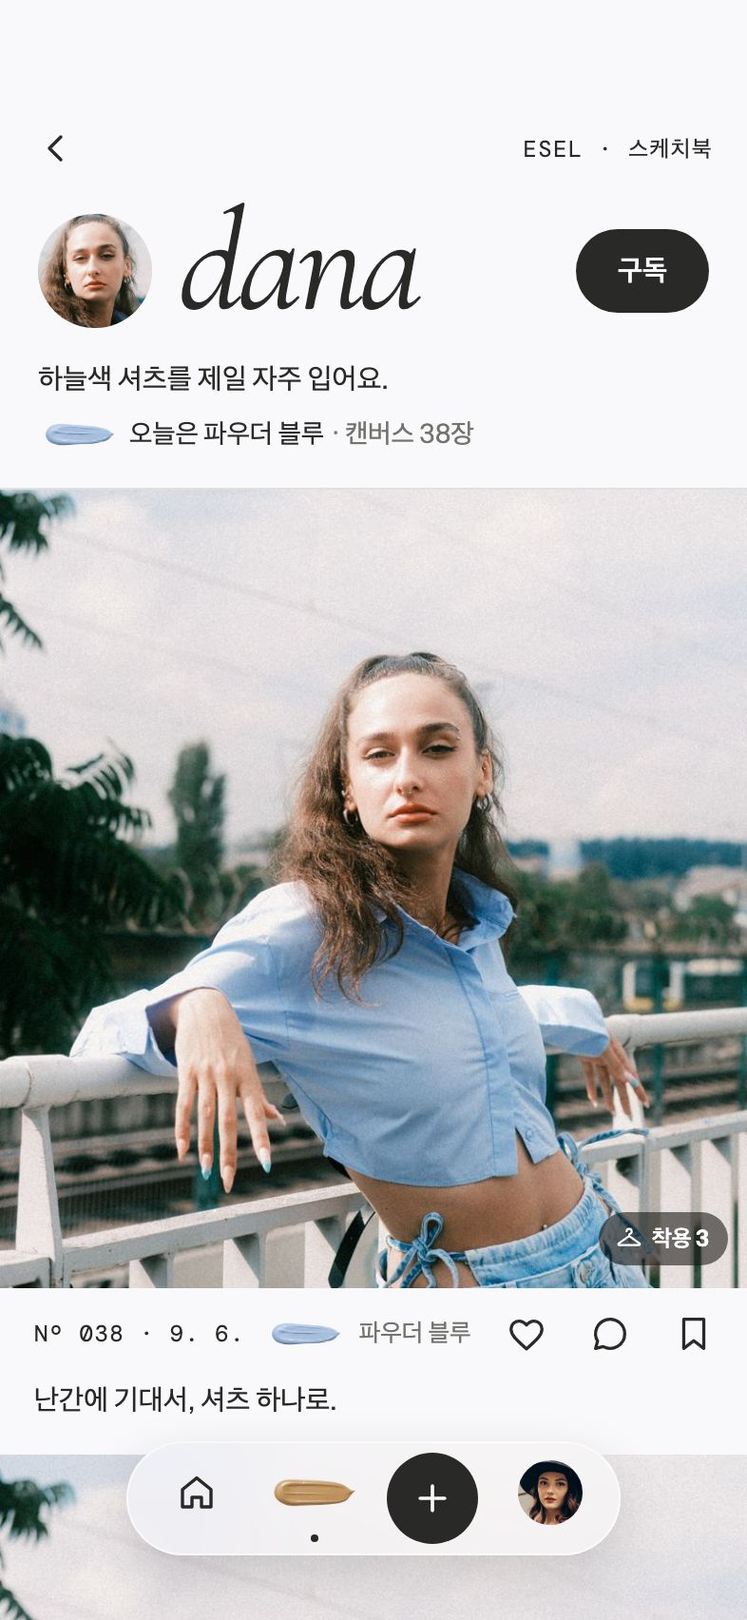
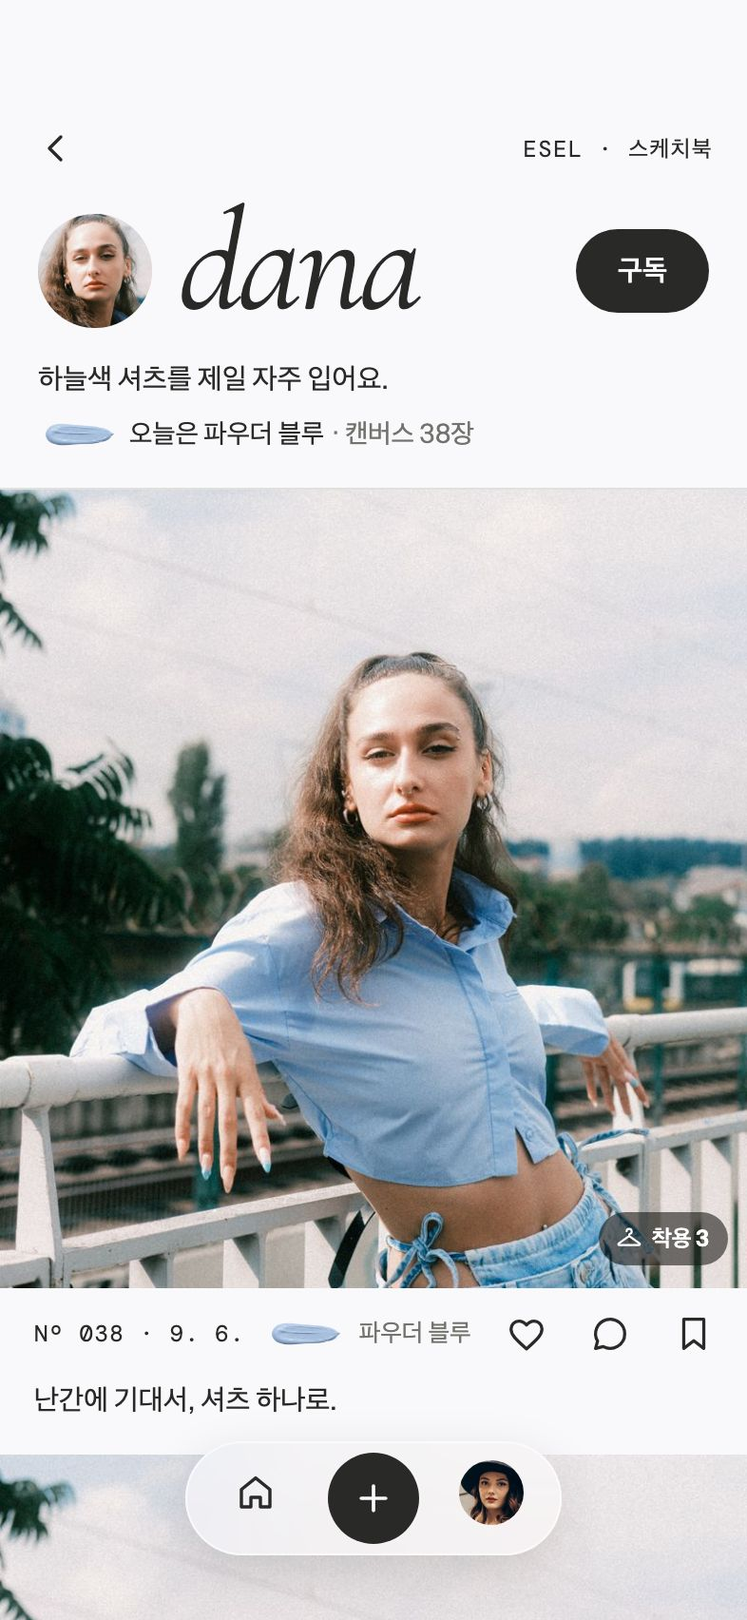
feat: 디자인 캔버스의 하단 캡슐을 홈↔팔레트가 바뀌는 3칸으로 변경
- capsule(): 바뀌는 칸 · 만들기 · 내 스케치북. 홈에서는 팔레트(내 물감), 그 밖에서는 홈 아이콘
- 컴포넌트 보드에 홈·팔레트·내 스케치북 세 상태 견본과 설명
- 캔버스 화면과 디자인 캡처 다시 생성(캔버스 v39로 게시)

Changed region(s): [[0.3053, 0.8709, 0.7939, 0.9642], [0.1832, 0.902, 0.3053, 0.9642]]

diff --git a/.codex/temp/prototype/20261003-cover-sns/generator/project/BoardComponents.dc.html b/.codex/temp/prototype/20261003-cover-sns/generator/project/BoardComponents.dc.html
@@ -33,22 +33,25 @@ button:active,a:active{transform:scale(0.97)}
 <section style="display: flex; flex-direction: column; gap: 18px">
 <h2 style="margin: 0; font-family: 'Esel Dot', 'Cormorant Garamond', 'Nanum Myeongjo', AppleMyungjo, Georgia, serif; font-size: 30px; font-weight: 400; line-height: 1.2">메뉴 캡슐 · 로그인 바 · 작은 로고</h2>
 <div style="display: flex; gap: 36px; align-items: flex-start; flex-wrap: wrap">
-<div style="display: flex; flex-direction: column; gap: 10px"><div style="position: relative; width: 300px; height: 110px; border-radius: 18px; overflow: hidden; "><img src="/_blob/a3b1f50ec885b82797b4dad1d6fb32f8" alt="" style="display: block; width: 300px; height: 110px; object-fit: cover; object-position: 50% 55%; position: absolute; left: 0; top: 0"><nav aria-label="주요 화면" class="esel-glass" style="position: absolute; left: 50%; bottom: 25px; width: 260px; height: 60px; margin-left: -130px; box-sizing: border-box; padding: 0 6px; border-radius: 30px; display: flex; align-items: center; justify-content: space-between; color: #292A27">
-<a href="CoverFeed.dc.html" aria-label="홈" aria-current="page" style="position: relative; width: 62px; height: 48px; box-sizing: border-box; padding-bottom: 6px; display: flex; align-items: center; justify-content: center"><svg width="24" height="24" viewBox="0 0 24 24" fill="none" stroke="currentColor" stroke-width="1.7" stroke-linecap="round" stroke-linejoin="round" aria-hidden="true"><path d="M4.5 10.4L12 4.3l7.5 6.1V19.5h-5v-5h-5v5h-5z"></path></svg><span aria-hidden="true" style="position: absolute; left: 50%; bottom: 1px; width: 4px; height: 4px; margin-left: -2px; border-radius: 50%; background: #292A27"></span></a>
+<div style="display: flex; flex-direction: column; gap: 10px"><div style="position: relative; width: 300px; height: 110px; border-radius: 18px; overflow: hidden; "><img src="/_blob/a3b1f50ec885b82797b4dad1d6fb32f8" alt="" style="display: block; width: 300px; height: 110px; object-fit: cover; object-position: 50% 55%; position: absolute; left: 0; top: 0"><nav aria-label="주요 화면" class="esel-glass" style="position: absolute; left: 50%; bottom: 25px; width: 198px; height: 60px; margin-left: -99px; box-sizing: border-box; padding: 0 6px; border-radius: 30px; display: flex; align-items: center; justify-content: space-between; color: #292A27">
 <a href="CoverStand.dc.html" aria-label="팔레트" style="position: relative; width: 62px; height: 48px; box-sizing: border-box; padding-bottom: 6px; display: flex; align-items: center; justify-content: center"><img src="/_blob/b6075b3235f77454183c94c49f6da37a" alt="" style="width: 52px; height: 26px; flex-shrink: 0; object-fit: contain"><span aria-hidden="true" style="position: absolute; left: 50%; bottom: 1px; width: 4px; height: 4px; margin-left: -2px; border-radius: 50%; background: transparent"></span></a>
 <span style="width: 62px; display: flex; justify-content: center"><a href="CoverMake.dc.html" aria-label="오늘의 캔버스 만들기" style="width: 48px; height: 48px; border-radius: 50%; display: flex; align-items: center; justify-content: center; background: #292A27; color: #F9F9FB"><svg width="22" height="22" viewBox="0 0 24 24" fill="none" stroke="currentColor" stroke-width="2" stroke-linecap="round" stroke-linejoin="round" aria-hidden="true"><path d="M12 5v14"></path><path d="M5 12h14"></path></svg></a></span>
 <a href="CoverShelf.dc.html" aria-label="내 스케치북" style="position: relative; width: 62px; height: 48px; box-sizing: border-box; padding-bottom: 6px; display: flex; align-items: center; justify-content: center"><span style="display: block; width: 34px; height: 34px; flex-shrink: 0; border-radius: 50%; overflow: hidden; background: #E9E9E6"><img src="/_blob/0d2c5aca03c0e210cd888e2094c78869" alt="" style="display: block; width: 128px; height: 192px; max-width: none; margin: -64px 0 0 -50px"></span><span aria-hidden="true" style="position: absolute; left: 50%; bottom: 1px; width: 4px; height: 4px; margin-left: -2px; border-radius: 50%; background: transparent"></span></a>
-</nav></div><span style="font-family: 'DM Mono', ui-monospace, Menlo, monospace; font-size: 11px; color: #71736C">캡슐 · 글라스 · 사진 위 · 지금 홈</span></div>
-<div style="display: flex; flex-direction: column; gap: 10px"><div style="position: relative; width: 300px; height: 110px; border-radius: 18px; overflow: hidden; background: #ECECEF"><nav aria-label="주요 화면" style="position: absolute; left: 50%; bottom: 25px; width: 260px; height: 60px; margin-left: -130px; box-sizing: border-box; padding: 0 6px; border-radius: 30px; display: flex; align-items: center; justify-content: space-between; color: #292A27; background: #F9F9FB; box-shadow: 0 10px 28px rgba(0, 0, 0, 0.14)">
+</nav></div><span style="font-family: 'DM Mono', ui-monospace, Menlo, monospace; font-size: 11px; color: #71736C">캡슐 · 글라스 · 사진 위 · 홈에서는 첫 칸이 팔레트</span></div>
+<div style="display: flex; flex-direction: column; gap: 10px"><div style="position: relative; width: 300px; height: 110px; border-radius: 18px; overflow: hidden; background: #ECECEF"><nav aria-label="주요 화면" style="position: absolute; left: 50%; bottom: 25px; width: 198px; height: 60px; margin-left: -99px; box-sizing: border-box; padding: 0 6px; border-radius: 30px; display: flex; align-items: center; justify-content: space-between; color: #292A27; background: #F9F9FB; box-shadow: 0 10px 28px rgba(0, 0, 0, 0.14)">
 <a href="CoverFeed.dc.html" aria-label="홈" style="position: relative; width: 62px; height: 48px; box-sizing: border-box; padding-bottom: 6px; display: flex; align-items: center; justify-content: center"><svg width="24" height="24" viewBox="0 0 24 24" fill="none" stroke="currentColor" stroke-width="1.7" stroke-linecap="round" stroke-linejoin="round" aria-hidden="true"><path d="M4.5 10.4L12 4.3l7.5 6.1V19.5h-5v-5h-5v5h-5z"></path></svg><span aria-hidden="true" style="position: absolute; left: 50%; bottom: 1px; width: 4px; height: 4px; margin-left: -2px; border-radius: 50%; background: transparent"></span></a>
-<a href="CoverStand.dc.html" aria-label="팔레트" aria-current="page" style="position: relative; width: 62px; height: 48px; box-sizing: border-box; padding-bottom: 6px; display: flex; align-items: center; justify-content: center"><img src="/_blob/b6075b3235f77454183c94c49f6da37a" alt="" style="width: 52px; height: 26px; flex-shrink: 0; object-fit: contain"><span aria-hidden="true" style="position: absolute; left: 50%; bottom: 1px; width: 4px; height: 4px; margin-left: -2px; border-radius: 50%; background: #292A27"></span></a>
 <span style="width: 62px; display: flex; justify-content: center"><a href="CoverMake.dc.html" aria-label="오늘의 캔버스 만들기" style="width: 48px; height: 48px; border-radius: 50%; display: flex; align-items: center; justify-content: center; background: #292A27; color: #F9F9FB"><svg width="22" height="22" viewBox="0 0 24 24" fill="none" stroke="currentColor" stroke-width="2" stroke-linecap="round" stroke-linejoin="round" aria-hidden="true"><path d="M12 5v14"></path><path d="M5 12h14"></path></svg></a></span>
 <a href="CoverShelf.dc.html" aria-label="내 스케치북" style="position: relative; width: 62px; height: 48px; box-sizing: border-box; padding-bottom: 6px; display: flex; align-items: center; justify-content: center"><span style="display: block; width: 34px; height: 34px; flex-shrink: 0; border-radius: 50%; overflow: hidden; background: #E9E9E6"><img src="/_blob/0d2c5aca03c0e210cd888e2094c78869" alt="" style="display: block; width: 128px; height: 192px; max-width: none; margin: -64px 0 0 -50px"></span><span aria-hidden="true" style="position: absolute; left: 50%; bottom: 1px; width: 4px; height: 4px; margin-left: -2px; border-radius: 50%; background: transparent"></span></a>
-</nav></div><span style="font-family: 'DM Mono', ui-monospace, Menlo, monospace; font-size: 11px; color: #71736C">캡슐 · 단색 · 투명도 줄이기 / 고대비 · 지금 팔레트</span></div>
+</nav></div><span style="font-family: 'DM Mono', ui-monospace, Menlo, monospace; font-size: 11px; color: #71736C">캡슐 · 단색 · 투명도 줄이기 / 고대비 · 팔레트에서는 첫 칸이 홈</span></div>
+<div style="display: flex; flex-direction: column; gap: 10px"><div style="position: relative; width: 300px; height: 110px; border-radius: 18px; overflow: hidden; background: #F9F9FB"><nav aria-label="주요 화면" style="position: absolute; left: 50%; bottom: 25px; width: 198px; height: 60px; margin-left: -99px; box-sizing: border-box; padding: 0 6px; border-radius: 30px; display: flex; align-items: center; justify-content: space-between; color: #292A27; background: #F9F9FB; box-shadow: 0 10px 28px rgba(0, 0, 0, 0.14)">
+<a href="CoverFeed.dc.html" aria-label="홈" style="position: relative; width: 62px; height: 48px; box-sizing: border-box; padding-bottom: 6px; display: flex; align-items: center; justify-content: center"><svg width="24" height="24" viewBox="0 0 24 24" fill="none" stroke="currentColor" stroke-width="1.7" stroke-linecap="round" stroke-linejoin="round" aria-hidden="true"><path d="M4.5 10.4L12 4.3l7.5 6.1V19.5h-5v-5h-5v5h-5z"></path></svg><span aria-hidden="true" style="position: absolute; left: 50%; bottom: 1px; width: 4px; height: 4px; margin-left: -2px; border-radius: 50%; background: transparent"></span></a>
+<span style="width: 62px; display: flex; justify-content: center"><a href="CoverMake.dc.html" aria-label="오늘의 캔버스 만들기" style="width: 48px; height: 48px; border-radius: 50%; display: flex; align-items: center; justify-content: center; background: #292A27; color: #F9F9FB"><svg width="22" height="22" viewBox="0 0 24 24" fill="none" stroke="currentColor" stroke-width="2" stroke-linecap="round" stroke-linejoin="round" aria-hidden="true"><path d="M12 5v14"></path><path d="M5 12h14"></path></svg></a></span>
+<a href="CoverShelf.dc.html" aria-label="내 스케치북" aria-current="page" style="position: relative; width: 62px; height: 48px; box-sizing: border-box; padding-bottom: 6px; display: flex; align-items: center; justify-content: center"><span style="display: block; width: 34px; height: 34px; flex-shrink: 0; border-radius: 50%; overflow: hidden; background: #E9E9E6"><img src="/_blob/0d2c5aca03c0e210cd888e2094c78869" alt="" style="display: block; width: 128px; height: 192px; max-width: none; margin: -64px 0 0 -50px"></span><span aria-hidden="true" style="position: absolute; left: 50%; bottom: 1px; width: 4px; height: 4px; margin-left: -2px; border-radius: 50%; background: #292A27"></span></a>
+</nav></div><span style="font-family: 'DM Mono', ui-monospace, Menlo, monospace; font-size: 11px; color: #71736C">캡슐 · 단색 · 내 스케치북 · 첫 칸 홈, 내 칸에 점</span></div>
 <div style="display: flex; flex-direction: column; gap: 10px"><div style="position: relative; width: 400px; height: 110px; border-radius: 18px; overflow: hidden"><img src="/_blob/a766ad9f12dec92cfa9b3cdca4c63768" alt="" style="display: block; width: 400px; height: 110px; object-fit: cover; object-position: 50% 60%; position: absolute; left: 0; top: 0"><span class="esel-glass" style="position: absolute; left: 16px; right: 16px; top: 22px; height: 66px; box-sizing: border-box; padding: 8px; border-radius: 33px; display: flex; gap: 8px"><span style="flex: 1 1 0; border-radius: 25px; display: flex; align-items: center; justify-content: center; box-shadow: inset 0 0 0 1.5px #292A27; font-size: 15px; font-weight: 600">로그인</span><span style="flex: 1.35 1 0; border-radius: 25px; display: flex; align-items: center; justify-content: center; background: #292A27; color: #F9F9FB; font-size: 15px; font-weight: 600">내 스케치북 만들기</span></span></div><span style="font-family: 'DM Mono', ui-monospace, Menlo, monospace; font-size: 11px; color: #71736C">로그인 바 · 비로그인 스크롤에서 캡슐 자리</span></div>
 <div style="display: flex; flex-direction: column; gap: 10px"><div style="position: relative; width: 200px; height: 110px; border-radius: 18px; overflow: hidden"><img src="/_blob/c2d2447b3fb019a0647547b338dc9615" alt="" style="display: block; width: 200px; height: 110px; object-fit: cover; object-position: 70% 40%; position: absolute; left: 0; top: 0"><span style="position: absolute; left: 46px; top: 32px; width: 108px; height: 46px; border-radius: 23px; display: flex; align-items: center; justify-content: center; background: rgba(249, 249, 251, 0.86); box-shadow: inset 0 0 0 1px rgba(255, 255, 255, 0.7), 0 4px 16px rgba(41, 42, 39, 0.1); font-family: 'Esel Dot', 'Cormorant Garamond', 'Nanum Myeongjo', AppleMyungjo, Georgia, serif; font-size: 28px; letter-spacing: -1.4px">Esel<span style="color: #AE8775">.</span></span></div><span style="font-family: 'DM Mono', ui-monospace, Menlo, monospace; font-size: 11px; color: #71736C">작은 로고 · 위로 스크롤</span></div>
 </div>
-<p style="margin: 0; font-size: 14px; line-height: 1.6; color: #55574F">캡슐 260×60 · 네 칸 62씩: 홈 · 팔레트(내 오늘의 색 물감) · 만들기(+) · 스케치북(내 얼굴). 지금 보는 화면만 아이콘 아래 점 4px. 만들기는 잠깐 들어갔다 나오는 화면이라 점을 찍지 않는다. 누르는 영역은 칸마다 48 이상.</p>
+<p style="margin: 0; font-size: 14px; line-height: 1.6; color: #55574F">캡슐 198×60 · 세 칸 62씩: 바뀌는 칸 · 만들기(+) · 스케치북(내 얼굴). 첫 칸은 지금 없는 쪽을 보여 준다. 홈에서는 팔레트(내 오늘의 색 물감), 팔레트와 내 스케치북에서는 홈. 팔레트에서 연 남의 스케치북·같은 색 방도 팔레트에 속해 홈이 뜬다. 점 4px은 내 스케치북에만 찍는다(바뀌는 칸은 갈 곳이라 점이 없고, 만들기는 잠깐 들어갔다 나오는 화면). 누르는 영역은 칸마다 48 이상.</p>
 </section>
 <section style="display: flex; flex-direction: column; gap: 18px">
 <h2 style="margin: 0; font-family: 'Esel Dot', 'Cormorant Garamond', 'Nanum Myeongjo', AppleMyungjo, Georgia, serif; font-size: 30px; font-weight: 400; line-height: 1.2">버튼</h2>

diff --git a/.codex/temp/prototype/20261003-cover-sns/generator/project/CoverStandLocked.dc.html b/.codex/temp/prototype/20261003-cover-sns/generator/project/CoverStandLocked.dc.html
@@ -83,9 +83,8 @@ button:active,a:active{transform:scale(0.97)}
 <button type="button" onClick="{{closeList}}" aria-label="테라코타" style="width: calc(100% - 12px); height: 48px; margin: 0 6px; box-sizing: border-box; padding: 0 8px 0 4px; border-radius: 10px; display: flex; align-items: center; gap: 4px; font-size: 15px; font-weight: 500; background: transparent"><img src="/_blob/dc9bda2f1944a8796d1a3d118d7d5935" alt="" style="width: 44px; height: 22px; flex-shrink: 0; object-fit: contain"><span>테라코타</span><span style="margin-left: auto; display: flex; align-items: center; gap: 8px"><span style="width: 18px; display: flex"></span></span></button>
 <button type="button" onClick="{{closeList}}" aria-label="버건디" style="width: calc(100% - 12px); height: 48px; margin: 0 6px; box-sizing: border-box; padding: 0 8px 0 4px; border-radius: 10px; display: flex; align-items: center; gap: 4px; font-size: 15px; font-weight: 500; background: transparent"><img src="/_blob/8c34cccf0aa6b2cd1c68178dbff4a444" alt="" style="width: 44px; height: 22px; flex-shrink: 0; object-fit: contain"><span>버건디</span><span style="margin-left: auto; display: flex; align-items: center; gap: 8px"><span style="width: 18px; display: flex"></span></span></button>
 </div>
-<nav aria-label="주요 화면" class="esel-glass" style="position: absolute; left: 50%; bottom: 34px; width: 260px; height: 60px; margin-left: -130px; box-sizing: border-box; padding: 0 6px; border-radius: 30px; display: flex; align-items: center; justify-content: space-between; color: #292A27">
+<nav aria-label="주요 화면" class="esel-glass" style="position: absolute; left: 50%; bottom: 34px; width: 198px; height: 60px; margin-left: -99px; box-sizing: border-box; padding: 0 6px; border-radius: 30px; display: flex; align-items: center; justify-content: space-between; color: #292A27">
 <a href="CoverFeed.dc.html" aria-label="홈" style="position: relative; width: 62px; height: 48px; box-sizing: border-box; padding-bottom: 6px; display: flex; align-items: center; justify-content: center"><svg width="24" height="24" viewBox="0 0 24 24" fill="none" stroke="currentColor" stroke-width="1.7" stroke-linecap="round" stroke-linejoin="round" aria-hidden="true"><path d="M4.5 10.4L12 4.3l7.5 6.1V19.5h-5v-5h-5v5h-5z"></path></svg><span aria-hidden="true" style="position: absolute; left: 50%; bottom: 1px; width: 4px; height: 4px; margin-left: -2px; border-radius: 50%; background: transparent"></span></a>
-<a href="CoverStand.dc.html" aria-label="팔레트" aria-current="page" style="position: relative; width: 62px; height: 48px; box-sizing: border-box; padding-bottom: 6px; display: flex; align-items: center; justify-content: center"><img src="/_blob/b6075b3235f77454183c94c49f6da37a" alt="" style="width: 52px; height: 26px; flex-shrink: 0; object-fit: contain"><span aria-hidden="true" style="position: absolute; left: 50%; bottom: 1px; width: 4px; height: 4px; margin-left: -2px; border-radius: 50%; background: #292A27"></span></a>
 <span style="width: 62px; display: flex; justify-content: center"><a href="CoverMake.dc.html" aria-label="오늘의 캔버스 만들기" style="width: 48px; height: 48px; border-radius: 50%; display: flex; align-items: center; justify-content: center; background: #292A27; color: #F9F9FB"><svg width="22" height="22" viewBox="0 0 24 24" fill="none" stroke="currentColor" stroke-width="2" stroke-linecap="round" stroke-linejoin="round" aria-hidden="true"><path d="M12 5v14"></path><path d="M5 12h14"></path></svg></a></span>
 <a href="CoverShelf.dc.html" aria-label="내 스케치북" style="position: relative; width: 62px; height: 48px; box-sizing: border-box; padding-bottom: 6px; display: flex; align-items: center; justify-content: center"><span style="display: block; width: 34px; height: 34px; flex-shrink: 0; border-radius: 50%; overflow: hidden; background: #E9E9E6"><img src="/_blob/0d2c5aca03c0e210cd888e2094c78869" alt="" style="display: block; width: 128px; height: 192px; max-width: none; margin: -64px 0 0 -50px"></span><span aria-hidden="true" style="position: absolute; left: 50%; bottom: 1px; width: 4px; height: 4px; margin-left: -2px; border-radius: 50%; background: transparent"></span></a>
 </nav>

diff --git a/.codex/temp/prototype/20261003-cover-sns/generator/project/CoverScroll.dc.html b/.codex/temp/prototype/20261003-cover-sns/generator/project/CoverScroll.dc.html
@@ -121,8 +121,7 @@ button:active,a:active{transform:scale(0.97)}
 </div>
 <button type="button" aria-label="맨 위 표지로 돌아가기" ref="{{setPill}}" onClick="{{toTop}}" style="position: absolute; left: 50%; top: 50px; width: 108px; height: 46px; margin-left: -54px; border-radius: 23px; background: rgba(249, 249, 251, 0.86); backdrop-filter: blur(14px); -webkit-backdrop-filter: blur(14px); box-shadow: inset 0 0 0 1px rgba(255, 255, 255, 0.7), 0 4px 16px rgba(41, 42, 39, 0.1); opacity: 0; pointer-events: none"></button>
 <div aria-hidden="true" ref="{{setMast}}" style="position: absolute; left: 0; top: 80px; width: 393px; height: 180px; box-sizing: border-box; padding-right: 10px; text-align: center; font-family: 'Esel Dot', 'Cormorant Garamond', 'Nanum Myeongjo', AppleMyungjo, Georgia, serif; font-size: 200px; line-height: 0.9; letter-spacing: -10px; color: #292A27; pointer-events: none; transform-origin: 50% 50%; will-change: transform, opacity"><span style="position: relative; display: inline-block">Esel<span ref="{{setDot}}" style="position: absolute; left: 100%; top: 0; color: #AE8775; opacity: 0">.</span></span></div>
-<nav aria-label="주요 화면" class="esel-glass" style="position: absolute; left: 50%; bottom: 34px; width: 260px; height: 60px; margin-left: -130px; box-sizing: border-box; padding: 0 6px; border-radius: 30px; display: flex; align-items: center; justify-content: space-between; color: #292A27">
-<a href="CoverFeed.dc.html" aria-label="홈" aria-current="page" style="position: relative; width: 62px; height: 48px; box-sizing: border-box; padding-bottom: 6px; display: flex; align-items: center; justify-content: center"><svg width="24" height="24" viewBox="0 0 24 24" fill="none" stroke="currentColor" stroke-width="1.7" stroke-linecap="round" stroke-linejoin="round" aria-hidden="true"><path d="M4.5 10.4L12 4.3l7.5 6.1V19.5h-5v-5h-5v5h-5z"></path></svg><span aria-hidden="true" style="position: absolute; left: 50%; bottom: 1px; width: 4px; height: 4px; margin-left: -2px; border-radius: 50%; background: #292A27"></span></a>
+<nav aria-label="주요 화면" class="esel-glass" style="position: absolute; left: 50%; bottom: 34px; width: 198px; height: 60px; margin-left: -99px; box-sizing: border-box; padding: 0 6px; border-radius: 30px; display: flex; align-items: center; justify-content: space-between; color: #292A27">
 <a href="CoverStand.dc.html" aria-label="팔레트" style="position: relative; width: 62px; height: 48px; box-sizing: border-box; padding-bottom: 6px; display: flex; align-items: center; justify-content: center"><img src="/_blob/b6075b3235f77454183c94c49f6da37a" alt="" style="width: 52px; height: 26px; flex-shrink: 0; object-fit: contain"><span aria-hidden="true" style="position: absolute; left: 50%; bottom: 1px; width: 4px; height: 4px; margin-left: -2px; border-radius: 50%; background: transparent"></span></a>
 <span style="width: 62px; display: flex; justify-content: center"><a href="CoverMake.dc.html" aria-label="오늘의 캔버스 만들기" style="width: 48px; height: 48px; border-radius: 50%; display: flex; align-items: center; justify-content: center; background: #292A27; color: #F9F9FB"><svg width="22" height="22" viewBox="0 0 24 24" fill="none" stroke="currentColor" stroke-width="2" stroke-linecap="round" stroke-linejoin="round" aria-hidden="true"><path d="M12 5v14"></path><path d="M5 12h14"></path></svg></a></span>
 <a href="CoverShelf.dc.html" aria-label="내 스케치북" style="position: relative; width: 62px; height: 48px; box-sizing: border-box; padding-bottom: 6px; display: flex; align-items: center; justify-content: center"><span style="display: block; width: 34px; height: 34px; flex-shrink: 0; border-radius: 50%; overflow: hidden; background: #E9E9E6"><img src="/_blob/0d2c5aca03c0e210cd888e2094c78869" alt="" style="display: block; width: 128px; height: 192px; max-width: none; margin: -64px 0 0 -50px"></span><span aria-hidden="true" style="position: absolute; left: 50%; bottom: 1px; width: 4px; height: 4px; margin-left: -2px; border-radius: 50%; background: transparent"></span></a>

diff --git a/.codex/temp/prototype/20261003-cover-sns/generator/project/CoverFeed.dc.html b/.codex/temp/prototype/20261003-cover-sns/generator/project/CoverFeed.dc.html
@@ -48,8 +48,7 @@ button:active,a:active{transform:scale(0.97)}
 <a href="CoverSpread.dc.html" style="margin-left: auto; height: 48px; padding: 0 12px; display: flex; align-items: center; gap: 4px; font-size: 14px; font-weight: 600"><span>자세히 보기</span><svg width="20" height="20" viewBox="0 0 24 24" fill="none" stroke="currentColor" stroke-width="1.8" stroke-linecap="round" stroke-linejoin="round" aria-hidden="true"><path d="M6 14l6-6 6 6"></path></svg></a>
 </div>
 </div>
-<nav aria-label="주요 화면" class="esel-glass" style="position: absolute; left: 50%; bottom: 34px; width: 260px; height: 60px; margin-left: -130px; box-sizing: border-box; padding: 0 6px; border-radius: 30px; display: flex; align-items: center; justify-content: space-between; color: #292A27">
-<a href="CoverFeed.dc.html" aria-label="홈" aria-current="page" style="position: relative; width: 62px; height: 48px; box-sizing: border-box; padding-bottom: 6px; display: flex; align-items: center; justify-content: center"><svg width="24" height="24" viewBox="0 0 24 24" fill="none" stroke="currentColor" stroke-width="1.7" stroke-linecap="round" stroke-linejoin="round" aria-hidden="true"><path d="M4.5 10.4L12 4.3l7.5 6.1V19.5h-5v-5h-5v5h-5z"></path></svg><span aria-hidden="true" style="position: absolute; left: 50%; bottom: 1px; width: 4px; height: 4px; margin-left: -2px; border-radius: 50%; background: #292A27"></span></a>
+<nav aria-label="주요 화면" class="esel-glass" style="position: absolute; left: 50%; bottom: 34px; width: 198px; height: 60px; margin-left: -99px; box-sizing: border-box; padding: 0 6px; border-radius: 30px; display: flex; align-items: center; justify-content: space-between; color: #292A27">
 <a href="CoverStand.dc.html" aria-label="팔레트" style="position: relative; width: 62px; height: 48px; box-sizing: border-box; padding-bottom: 6px; display: flex; align-items: center; justify-content: center"><img src="/_blob/b6075b3235f77454183c94c49f6da37a" alt="" style="width: 52px; height: 26px; flex-shrink: 0; object-fit: contain"><span aria-hidden="true" style="position: absolute; left: 50%; bottom: 1px; width: 4px; height: 4px; margin-left: -2px; border-radius: 50%; background: transparent"></span></a>
 <span style="width: 62px; display: flex; justify-content: center"><a href="CoverMake.dc.html" aria-label="오늘의 캔버스 만들기" style="width: 48px; height: 48px; border-radius: 50%; display: flex; align-items: center; justify-content: center; background: #292A27; color: #F9F9FB"><svg width="22" height="22" viewBox="0 0 24 24" fill="none" stroke="currentColor" stroke-width="2" stroke-linecap="round" stroke-linejoin="round" aria-hidden="true"><path d="M12 5v14"></path><path d="M5 12h14"></path></svg></a></span>
 <a href="CoverShelf.dc.html" aria-label="내 스케치북" style="position: relative; width: 62px; height: 48px; box-sizing: border-box; padding-bottom: 6px; display: flex; align-items: center; justify-content: center"><span style="display: block; width: 34px; height: 34px; flex-shrink: 0; border-radius: 50%; overflow: hidden; background: #E9E9E6"><img src="/_blob/0d2c5aca03c0e210cd888e2094c78869" alt="" style="display: block; width: 128px; height: 192px; max-width: none; margin: -64px 0 0 -50px"></span><span aria-hidden="true" style="position: absolute; left: 50%; bottom: 1px; width: 4px; height: 4px; margin-left: -2px; border-radius: 50%; background: transparent"></span></a>

diff --git a/.codex/temp/prototype/20261003-cover-sns/generator/project/CoverNext.dc.html b/.codex/temp/prototype/20261003-cover-sns/generator/project/CoverNext.dc.html
@@ -49,8 +49,7 @@ button:active,a:active{transform:scale(0.97)}
 <a href="CoverSpread.dc.html" style="margin-left: auto; height: 48px; padding: 0 12px; display: flex; align-items: center; gap: 4px; font-size: 14px; font-weight: 600"><span>자세히 보기</span><svg width="20" height="20" viewBox="0 0 24 24" fill="none" stroke="currentColor" stroke-width="1.8" stroke-linecap="round" stroke-linejoin="round" aria-hidden="true"><path d="M6 14l6-6 6 6"></path></svg></a>
 </div>
 </div>
-<nav aria-label="주요 화면" class="esel-glass" style="position: absolute; left: 50%; bottom: 34px; width: 260px; height: 60px; margin-left: -130px; box-sizing: border-box; padding: 0 6px; border-radius: 30px; display: flex; align-items: center; justify-content: space-between; color: #292A27">
-<a href="CoverFeed.dc.html" aria-label="홈" aria-current="page" style="position: relative; width: 62px; height: 48px; box-sizing: border-box; padding-bottom: 6px; display: flex; align-items: center; justify-content: center"><svg width="24" height="24" viewBox="0 0 24 24" fill="none" stroke="currentColor" stroke-width="1.7" stroke-linecap="round" stroke-linejoin="round" aria-hidden="true"><path d="M4.5 10.4L12 4.3l7.5 6.1V19.5h-5v-5h-5v5h-5z"></path></svg><span aria-hidden="true" style="position: absolute; left: 50%; bottom: 1px; width: 4px; height: 4px; margin-left: -2px; border-radius: 50%; background: #292A27"></span></a>
+<nav aria-label="주요 화면" class="esel-glass" style="position: absolute; left: 50%; bottom: 34px; width: 198px; height: 60px; margin-left: -99px; box-sizing: border-box; padding: 0 6px; border-radius: 30px; display: flex; align-items: center; justify-content: space-between; color: #292A27">
 <a href="CoverStand.dc.html" aria-label="팔레트" style="position: relative; width: 62px; height: 48px; box-sizing: border-box; padding-bottom: 6px; display: flex; align-items: center; justify-content: center"><img src="/_blob/b6075b3235f77454183c94c49f6da37a" alt="" style="width: 52px; height: 26px; flex-shrink: 0; object-fit: contain"><span aria-hidden="true" style="position: absolute; left: 50%; bottom: 1px; width: 4px; height: 4px; margin-left: -2px; border-radius: 50%; background: transparent"></span></a>
 <span style="width: 62px; display: flex; justify-content: center"><a href="CoverMake.dc.html" aria-label="오늘의 캔버스 만들기" style="width: 48px; height: 48px; border-radius: 50%; display: flex; align-items: center; justify-content: center; background: #292A27; color: #F9F9FB"><svg width="22" height="22" viewBox="0 0 24 24" fill="none" stroke="currentColor" stroke-width="2" stroke-linecap="round" stroke-linejoin="round" aria-hidden="true"><path d="M12 5v14"></path><path d="M5 12h14"></path></svg></a></span>
 <a href="CoverShelf.dc.html" aria-label="내 스케치북" style="position: relative; width: 62px; height: 48px; box-sizing: border-box; padding-bottom: 6px; display: flex; align-items: center; justify-content: center"><span style="display: block; width: 34px; height: 34px; flex-shrink: 0; border-radius: 50%; overflow: hidden; background: #E9E9E6"><img src="/_blob/0d2c5aca03c0e210cd888e2094c78869" alt="" style="display: block; width: 128px; height: 192px; max-width: none; margin: -64px 0 0 -50px"></span><span aria-hidden="true" style="position: absolute; left: 50%; bottom: 1px; width: 4px; height: 4px; margin-left: -2px; border-radius: 50%; background: transparent"></span></a>

diff --git a/.codex/temp/prototype/20261003-cover-sns/generator/project/CoverShelf.dc.html b/.codex/temp/prototype/20261003-cover-sns/generator/project/CoverShelf.dc.html
@@ -62,9 +62,8 @@ button:active,a:active{transform:scale(0.97)}
 <p style="margin: 0; padding: 0 18px; font-size: 15px; line-height: 1.45">같은 셔츠, 오늘은 물감 한 획.</p>
 </article>
 </main>
-<nav aria-label="주요 화면" class="esel-glass" style="position: absolute; left: 50%; bottom: 34px; width: 260px; height: 60px; margin-left: -130px; box-sizing: border-box; padding: 0 6px; border-radius: 30px; display: flex; align-items: center; justify-content: space-between; color: #292A27">
+<nav aria-label="주요 화면" class="esel-glass" style="position: absolute; left: 50%; bottom: 34px; width: 198px; height: 60px; margin-left: -99px; box-sizing: border-box; padding: 0 6px; border-radius: 30px; display: flex; align-items: center; justify-content: space-between; color: #292A27">
 <a href="CoverFeed.dc.html" aria-label="홈" style="position: relative; width: 62px; height: 48px; box-sizing: border-box; padding-bottom: 6px; display: flex; align-items: center; justify-content: center"><svg width="24" height="24" viewBox="0 0 24 24" fill="none" stroke="currentColor" stroke-width="1.7" stroke-linecap="round" stroke-linejoin="round" aria-hidden="true"><path d="M4.5 10.4L12 4.3l7.5 6.1V19.5h-5v-5h-5v5h-5z"></path></svg><span aria-hidden="true" style="position: absolute; left: 50%; bottom: 1px; width: 4px; height: 4px; margin-left: -2px; border-radius: 50%; background: transparent"></span></a>
-<a href="CoverStand.dc.html" aria-label="팔레트" aria-current="page" style="position: relative; width: 62px; height: 48px; box-sizing: border-box; padding-bottom: 6px; display: flex; align-items: center; justify-content: center"><img src="/_blob/b6075b3235f77454183c94c49f6da37a" alt="" style="width: 52px; height: 26px; flex-shrink: 0; object-fit: contain"><span aria-hidden="true" style="position: absolute; left: 50%; bottom: 1px; width: 4px; height: 4px; margin-left: -2px; border-radius: 50%; background: #292A27"></span></a>
 <span style="width: 62px; display: flex; justify-content: center"><a href="CoverMake.dc.html" aria-label="오늘의 캔버스 만들기" style="width: 48px; height: 48px; border-radius: 50%; display: flex; align-items: center; justify-content: center; background: #292A27; color: #F9F9FB"><svg width="22" height="22" viewBox="0 0 24 24" fill="none" stroke="currentColor" stroke-width="2" stroke-linecap="round" stroke-linejoin="round" aria-hidden="true"><path d="M12 5v14"></path><path d="M5 12h14"></path></svg></a></span>
 <a href="CoverShelf.dc.html" aria-label="내 스케치북" style="position: relative; width: 62px; height: 48px; box-sizing: border-box; padding-bottom: 6px; display: flex; align-items: center; justify-content: center"><span style="display: block; width: 34px; height: 34px; flex-shrink: 0; border-radius: 50%; overflow: hidden; background: #E9E9E6"><img src="/_blob/0d2c5aca03c0e210cd888e2094c78869" alt="" style="display: block; width: 128px; height: 192px; max-width: none; margin: -64px 0 0 -50px"></span><span aria-hidden="true" style="position: absolute; left: 50%; bottom: 1px; width: 4px; height: 4px; margin-left: -2px; border-radius: 50%; background: transparent"></span></a>
 </nav>

diff --git a/.codex/temp/prototype/20261003-cover-sns/generator/project/CoverStand.dc.html b/.codex/temp/prototype/20261003-cover-sns/generator/project/CoverStand.dc.html
@@ -100,9 +100,8 @@ button:active,a:active{transform:scale(0.97)}
 </section>
 <div style="height: 110px"></div>
 </div>
-<nav aria-label="주요 화면" class="esel-glass" style="position: absolute; left: 50%; bottom: 34px; width: 260px; height: 60px; margin-left: -130px; box-sizing: border-box; padding: 0 6px; border-radius: 30px; display: flex; align-items: center; justify-content: space-between; color: #292A27">
+<nav aria-label="주요 화면" class="esel-glass" style="position: absolute; left: 50%; bottom: 34px; width: 198px; height: 60px; margin-left: -99px; box-sizing: border-box; padding: 0 6px; border-radius: 30px; display: flex; align-items: center; justify-content: space-between; color: #292A27">
 <a href="CoverFeed.dc.html" aria-label="홈" style="position: relative; width: 62px; height: 48px; box-sizing: border-box; padding-bottom: 6px; display: flex; align-items: center; justify-content: center"><svg width="24" height="24" viewBox="0 0 24 24" fill="none" stroke="currentColor" stroke-width="1.7" stroke-linecap="round" stroke-linejoin="round" aria-hidden="true"><path d="M4.5 10.4L12 4.3l7.5 6.1V19.5h-5v-5h-5v5h-5z"></path></svg><span aria-hidden="true" style="position: absolute; left: 50%; bottom: 1px; width: 4px; height: 4px; margin-left: -2px; border-radius: 50%; background: transparent"></span></a>
-<a href="CoverStand.dc.html" aria-label="팔레트" aria-current="page" style="position: relative; width: 62px; height: 48px; box-sizing: border-box; padding-bottom: 6px; display: flex; align-items: center; justify-content: center"><img src="/_blob/b6075b3235f77454183c94c49f6da37a" alt="" style="width: 52px; height: 26px; flex-shrink: 0; object-fit: contain"><span aria-hidden="true" style="position: absolute; left: 50%; bottom: 1px; width: 4px; height: 4px; margin-left: -2px; border-radius: 50%; background: #292A27"></span></a>
 <span style="width: 62px; display: flex; justify-content: center"><a href="CoverMake.dc.html" aria-label="오늘의 캔버스 만들기" style="width: 48px; height: 48px; border-radius: 50%; display: flex; align-items: center; justify-content: center; background: #292A27; color: #F9F9FB"><svg width="22" height="22" viewBox="0 0 24 24" fill="none" stroke="currentColor" stroke-width="2" stroke-linecap="round" stroke-linejoin="round" aria-hidden="true"><path d="M12 5v14"></path><path d="M5 12h14"></path></svg></a></span>
 <a href="CoverShelf.dc.html" aria-label="내 스케치북" style="position: relative; width: 62px; height: 48px; box-sizing: border-box; padding-bottom: 6px; display: flex; align-items: center; justify-content: center"><span style="display: block; width: 34px; height: 34px; flex-shrink: 0; border-radius: 50%; overflow: hidden; background: #E9E9E6"><img src="/_blob/0d2c5aca03c0e210cd888e2094c78869" alt="" style="display: block; width: 128px; height: 192px; max-width: none; margin: -64px 0 0 -50px"></span><span aria-hidden="true" style="position: absolute; left: 50%; bottom: 1px; width: 4px; height: 4px; margin-left: -2px; border-radius: 50%; background: transparent"></span></a>
 </nav>

diff --git a/.codex/temp/prototype/20261003-cover-sns/generator/project/BoardTokens.dc.html b/.codex/temp/prototype/20261003-cover-sns/generator/project/BoardTokens.dc.html
@@ -81,7 +81,7 @@ button:active,a:active{transform:scale(0.97)}
 <div style="display: flex; align-items: center; gap: 12px"><span style="width: 80px; height: 12px; background: #292A27"></span><span style="font-family: 'DM Mono', ui-monospace, Menlo, monospace; font-size: 12px">20</span></div>
 <div style="display: flex; align-items: center; gap: 12px"><span style="width: 96px; height: 12px; background: #292A27"></span><span style="font-family: 'DM Mono', ui-monospace, Menlo, monospace; font-size: 12px">24</span></div>
 <div style="display: flex; align-items: center; gap: 12px"><span style="width: 128px; height: 12px; background: #292A27"></span><span style="font-family: 'DM Mono', ui-monospace, Menlo, monospace; font-size: 12px">32</span></div>
-<p style="margin: 0; font-size: 14px; line-height: 1.6; color: #55574F">누를 수 있는 곳은 최소 48×48. 화면 좌우 여백 20, 안쪽 지면 글 18. 캡슐 260×60(4칸, 칸마다 62). 팔레트 격자 칸 130×173, 긴 칸 130×348, 간격 2.</p>
+<p style="margin: 0; font-size: 14px; line-height: 1.6; color: #55574F">누를 수 있는 곳은 최소 48×48. 화면 좌우 여백 20, 안쪽 지면 글 18. 캡슐 198×60(3칸, 칸마다 62). 팔레트 격자 칸 130×173, 긴 칸 130×348, 간격 2.</p>
 </section>
 <section style="background: #FFFFFF; border-radius: 20px; box-shadow: inset 0 0 0 1px #ECECE8; padding: 24px; display: flex; flex-direction: column; gap: 14px">
 <p style="margin: 0; font-family: 'DM Mono', ui-monospace, Menlo, monospace; font-size: 12px; letter-spacing: 0.08em; color: #71736C">모서리</p>

diff --git a/.codex/temp/prototype/20261003-cover-sns/README.md b/.codex/temp/prototype/20261003-cover-sns/README.md
@@ -10,7 +10,7 @@ Esel의 최신 디자인이다. 화면은 Claude Design 캔버스(`harness.json.
 | --- | --- |
 | 00 무드보드 | 키워드·말투, 12색, Esel 문법 |
 | 01 디자인 토큰 | 바탕색, 12색 물감, 글꼴, 간격, 모서리, 깊이, 움직임 곡선 |
-| 02 컴포넌트 | 4칸 캡슐, 로그인 바, 버튼, 선택, 입력, 팔레트(탭·색 버튼·색 목록·격자 칸), 착용 정보(태그 점·정보 줄·더하기), 작은 표지, 정보 줄 |
+| 02 컴포넌트 | 3칸 캡슐(바뀌는 칸), 로그인 바, 버튼, 선택, 입력, 팔레트(탭·색 버튼·색 목록·격자 칸), 착용 정보(태그 점·정보 줄·더하기), 작은 표지, 정보 줄 |
 | 03 화면 · 표지 SNS | C1–C8: 홈 피드, 어두운 사진, 자세히 보기·착용 정보, 팔레트(추천), 스케치북, 오늘의 캔버스 만들기, 스크롤, 팔레트 색상 탭·올리기 전(색 목록 열기) |
 | 03 화면 · 로그인 · 첫 캔버스 | J1–J7: 비로그인 표지 → 로그인 → 첫 캔버스(색·촬영·사인·얼굴) → 첫 캔버스 |
 | 04 모션 | 적용된 동작 4개와 제안 7개, 반복 재생 견본 |
@@ -20,7 +20,7 @@ Esel의 최신 디자인이다. 화면은 Claude Design 캔버스(`harness.json.
 
 | 경로 | 내용 |
 | --- | --- |
-| `generator/lib.mjs` | 12색(`PAINT`), 예시 인물 27명(`PEOPLE`, Vision으로 잰 얼굴 위치), 로그인 예시 사용자(`ME`), 화면 조각(표지·물감 가리기·목 아래·사인 크기·4칸 글라스 캡슐·착용 태그 점과 알약) |
+| `generator/lib.mjs` | 12색(`PAINT`), 예시 인물 27명(`PEOPLE`, Vision으로 잰 얼굴 위치), 로그인 예시 사용자(`ME`), 화면 조각(표지·물감 가리기·목 아래·사인 크기·3칸 글라스 캡슐(바뀌는 칸)·착용 태그 점과 알약) |
 | `generator/scroll.mjs` | 큰 Esel 로고 녹아들기와 로그인 바 스크롤 로직 |
 | `generator/gen-cover2.mjs` · `gen-join.mjs` · `gen-boards.mjs` | C1–C8, J1–J7, 00·01·02·04 보드 생성. `--index`를 붙이면 `project/canvas.json`도 고침 |
 | `generator/project/` | 생성된 `.dc.html`과 캔버스 색인 사본 |
